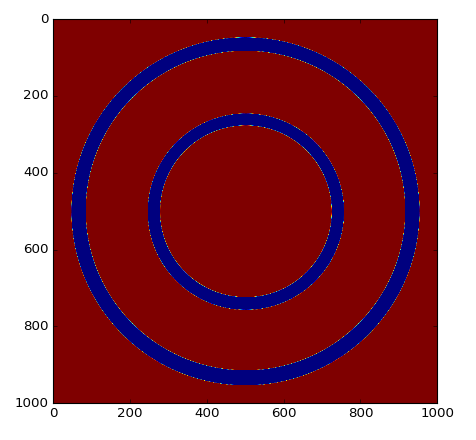
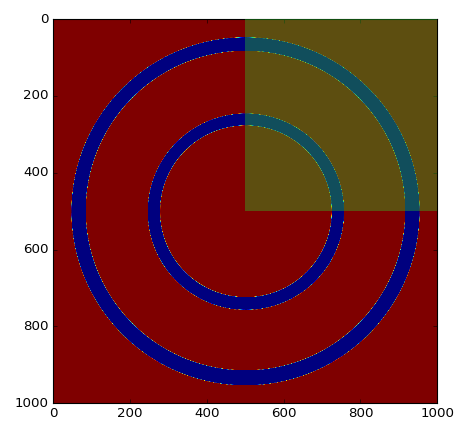
Improved documentation

Changed region(s): [[0.5, 0.0295, 0.9412, 0.5023]]

diff --git a/README.md b/README.md
@@ -5,6 +5,18 @@
 # SectorizedRadialProfile
 Calculate radial profile of a given angle
 
+**Principle**
+
+The goal of this library is to integrate (sum) all the pixel that are at the same distance
+from the center (defined by the user) over a given sector (angular range).
+
+![alt text](docs/_static/readme_principle.png "principle")
+
+This will produce the given profile
+
+![alt text](docs/_statis/readme_result.png "result")
+
+
 **Example**
 
 ```
@@ -44,6 +56,11 @@ plt.plot(profile)
 ```
 
 ![alt text](docs/_static/sector_profile.png "profile")
+
+
+
+
+
 
 
 **How to run the tests**
